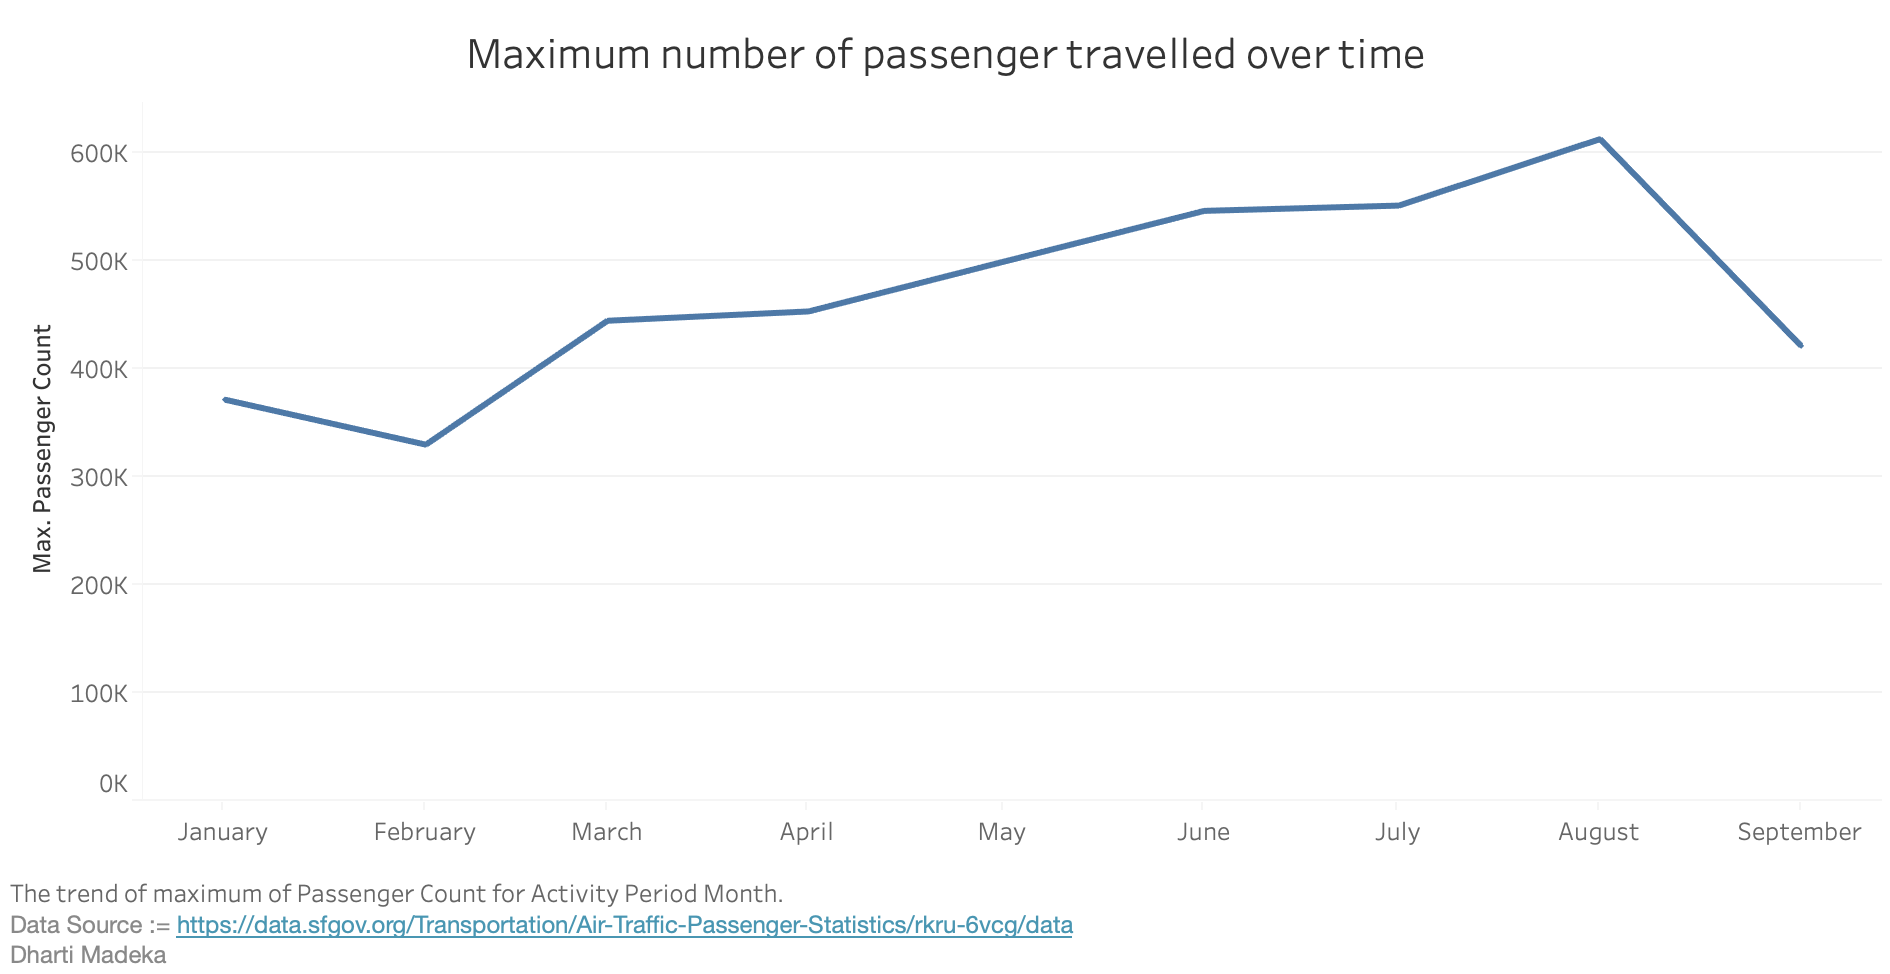
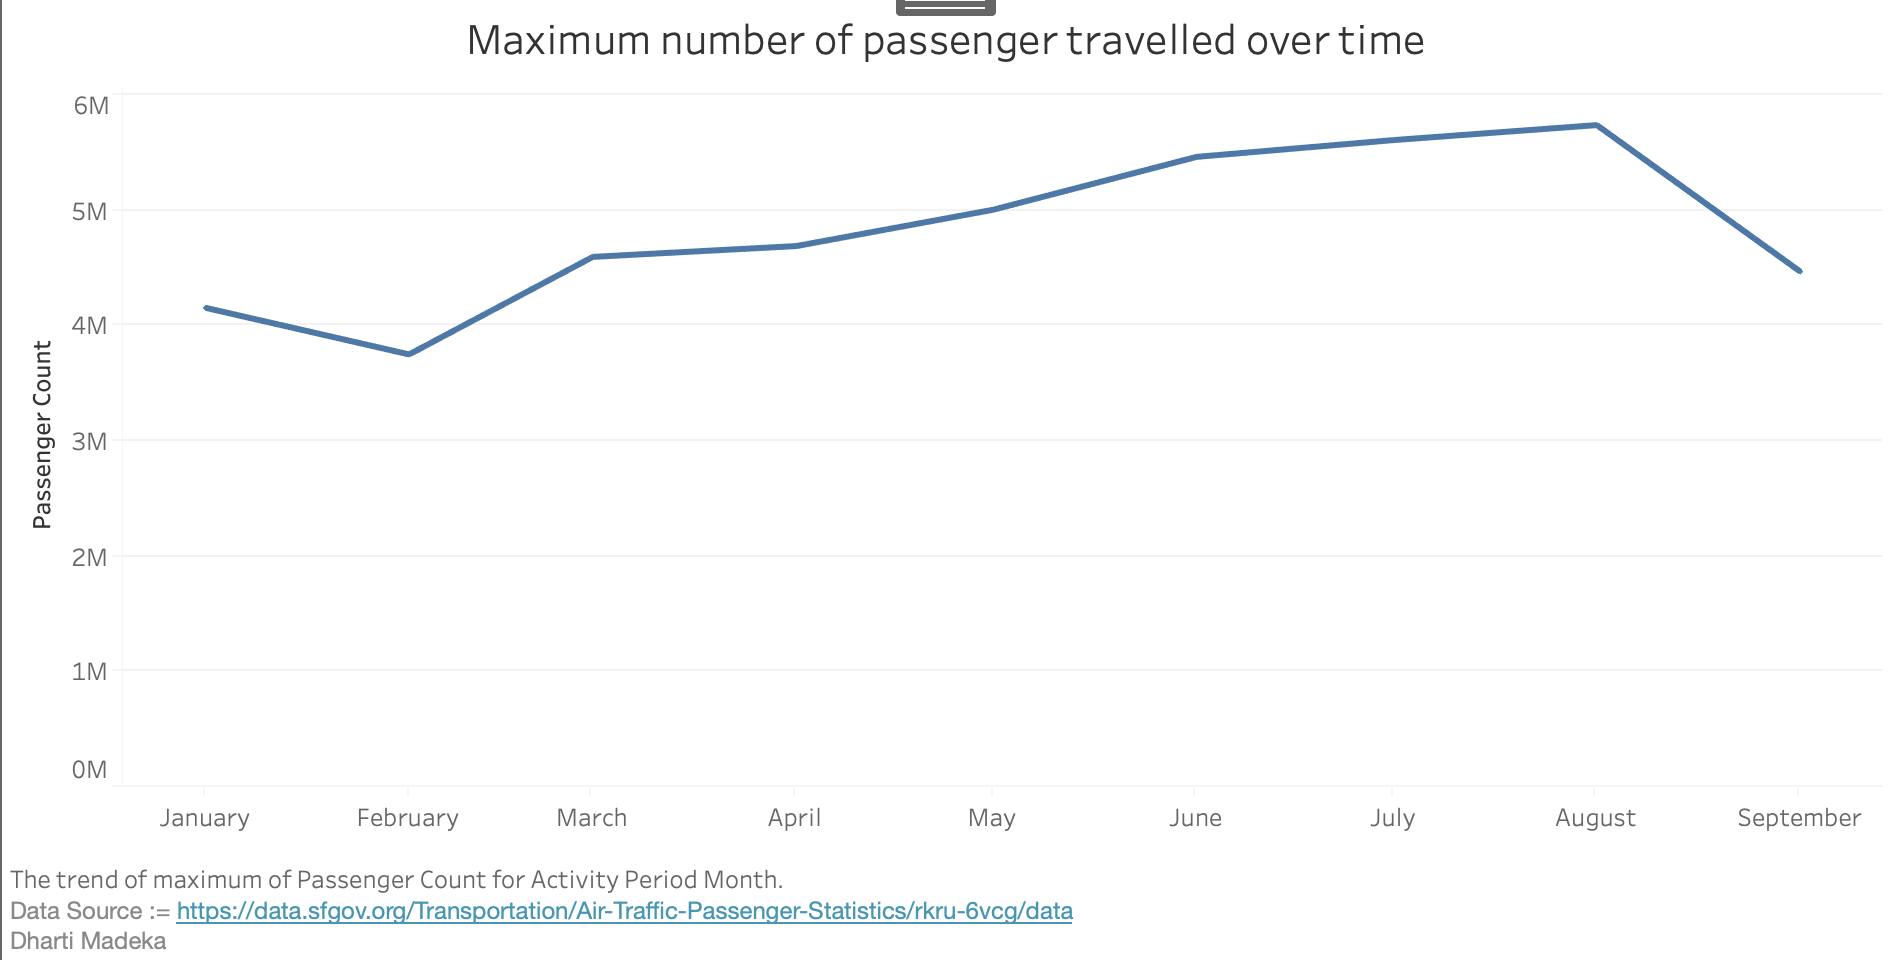
TODO:// write writeup for linechart, try to do multiple colors line for line chart

diff --git a/chart.js b/chart.js
@@ -55,6 +55,8 @@ let drawBarChart = function(data){
   let xAxis = d3.axisBottom(terminalXScale);
   let yAxis = d3.axisLeft(passengerYScale);
 
+  yAxis.ticks(5, "f").tickFormat(d3.formatPrefix(".0", 1e6));
+
   let xGroup = plot.append("g").attr("id", "x-axis");
     xGroup.call(xAxis);
 
@@ -133,12 +135,14 @@ let drawBarChart = function(data){
 // ??DRAW LINE Chart
 
  let drawLineChart = function (data) {
-      //count num of pas for each month (combine months)
-      let monthly = Object.values(data.reduce((r, o) => {
-        r[o.date.getMonth()] = r[o.date.getMonth()] || {month: o.date.getMonth()+1, num : 0};
-        r[o.date.getMonth()].num += +o.num;
-        return r;
-      },{}));
+   var monthsNames = ['January','February','March','April','May','June','July','August','September','October','November','December'];
+
+   //count num of pas for each month (combine months)
+   let monthly = Object.values(data.reduce((r, o) => {
+     r[o.date.getMonth()] = r[o.date.getMonth()] || {month: monthsNames[o.date.getMonth()], num : 0};
+     r[o.date.getMonth()].num += +o.num;
+     return r;
+   },{}))
 
       //gives passenger counts
       let passengerCount = monthly.map(d => d.num);
@@ -165,7 +169,7 @@ let drawBarChart = function(data){
       top:    50,
       right:  20,
       bottom: 30,
-      left:  90
+      left:  50
       };
 
       // now we can calculate how much space we have to plot
@@ -192,7 +196,7 @@ let drawBarChart = function(data){
 
       let xAxis = d3.axisBottom(monthXScale);
       let yAxis = d3.axisLeft(passengerYScale);
-
+      yAxis.ticks(5, "f").tickFormat(d3.formatPrefix(".0", 1e6));
       let xGroup = plot.append("g").attr("id", "x-axis");
       xGroup.call(xAxis);
       xGroup.attr("transform", translate(0, plotHeight));
@@ -202,12 +206,6 @@ let drawBarChart = function(data){
 
 
       let pairs = Array.from(monthly);
-
-      Date.locale = {
-          en: {
-             month_names_short: ['Jan', 'Feb', 'Mar', 'Apr', 'May', 'Jun', 'Jul', 'Aug', 'Sep', 'Oct', 'Nov', 'Dec']
-          }
-      };
 
       let line1 = d3.line()
             .x(function(d) {return monthXScale(d.month)+40})
@@ -245,14 +243,14 @@ let drawBarChart = function(data){
           .attr("x",0 - (plotHeight / 2))
           .attr("dy", "1em")
           .style("text-anchor", "middle")
-          .text("Max Number of Passenger Count");
+          .text("Passenger Count");
       // for graph title
       svg.append("text")
       .attr("class", "title")
       .attr("x", (plotWidth / 2))
       .attr("y", 0 + (margin.top / 2))
       .attr("text-anchor", "middle")
-      .text("Max Passenger Count over months in Activity Period ");
+      .text("Maximum number of passengers travelled over time ");
 
       //grid lines
       // Gridline

diff --git a/linechart.html b/linechart.html
@@ -136,10 +136,11 @@
     <div id="vis">
       <svg class="linechart">
         <div>
-          <caption><strong>Caption: </strong> Maximum number of Passenger Count for each Terminal. <br/>
+          <caption><strong>Caption: </strong> The trend of maximum of Passenger Count for Activity Period Month. <br/>
             Data Source := <a href="https://data.sfgov.org/Transportation/Air-Traffic-Passenger-Statistics/rkru-6vcg/data">
                     https://data.sfgov.org/Transportation/Air-Traffic-Passenger-Statistics/rkru-6vcg/data
-              </a>
+              </a><br/>
+              Dharti Madeka
           </caption>
         </div>
       </svg>
@@ -147,9 +148,8 @@
 
     <h4></h4>
 
-    <p>You will likely need to include instructions on how to interpet and use the visualization. In the case above, if you click the three dots <i class="fas fa-ellipsis-h has-text-grey-light	"></i> above it will open a menu where you can either save the visualization to a SVG or PNG, or alternatively open it up in the online Vega Editor.</p>
 
-    <h4>Discussion</h4>
+    <h4>Writeups</h4>
 
     <p>You may also need other sections, like a discussion section, per-visualization section on data wrangling, and others. Because of the extra content and code visualizations take, it might be worthwhile to break up your pages into one home page and then one page per visualization.</p>
 
